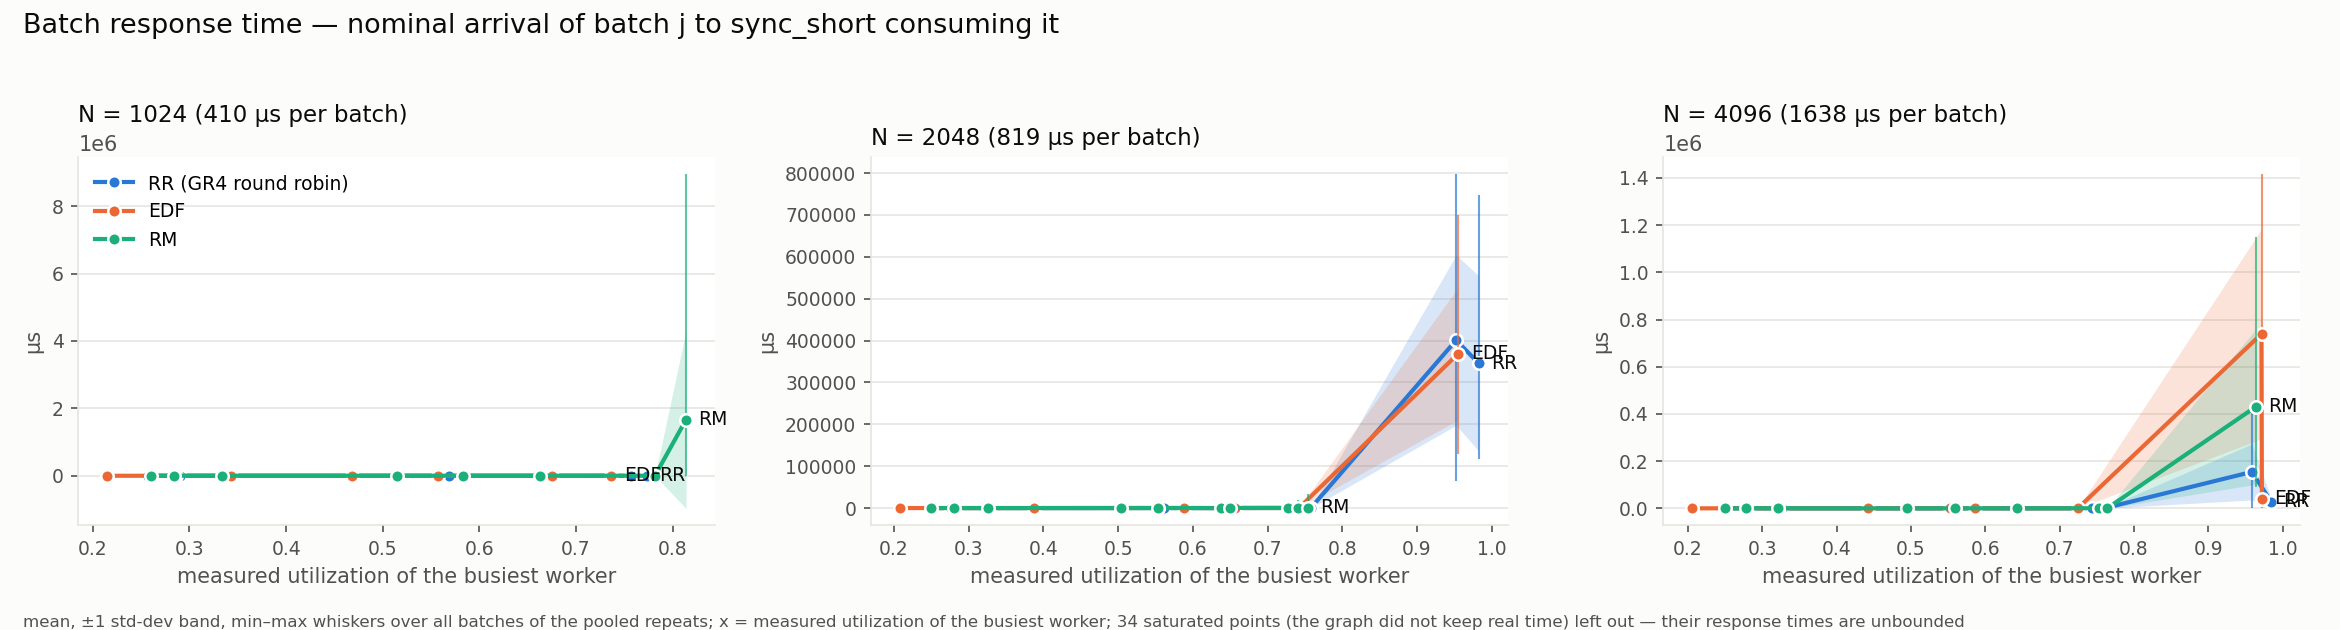
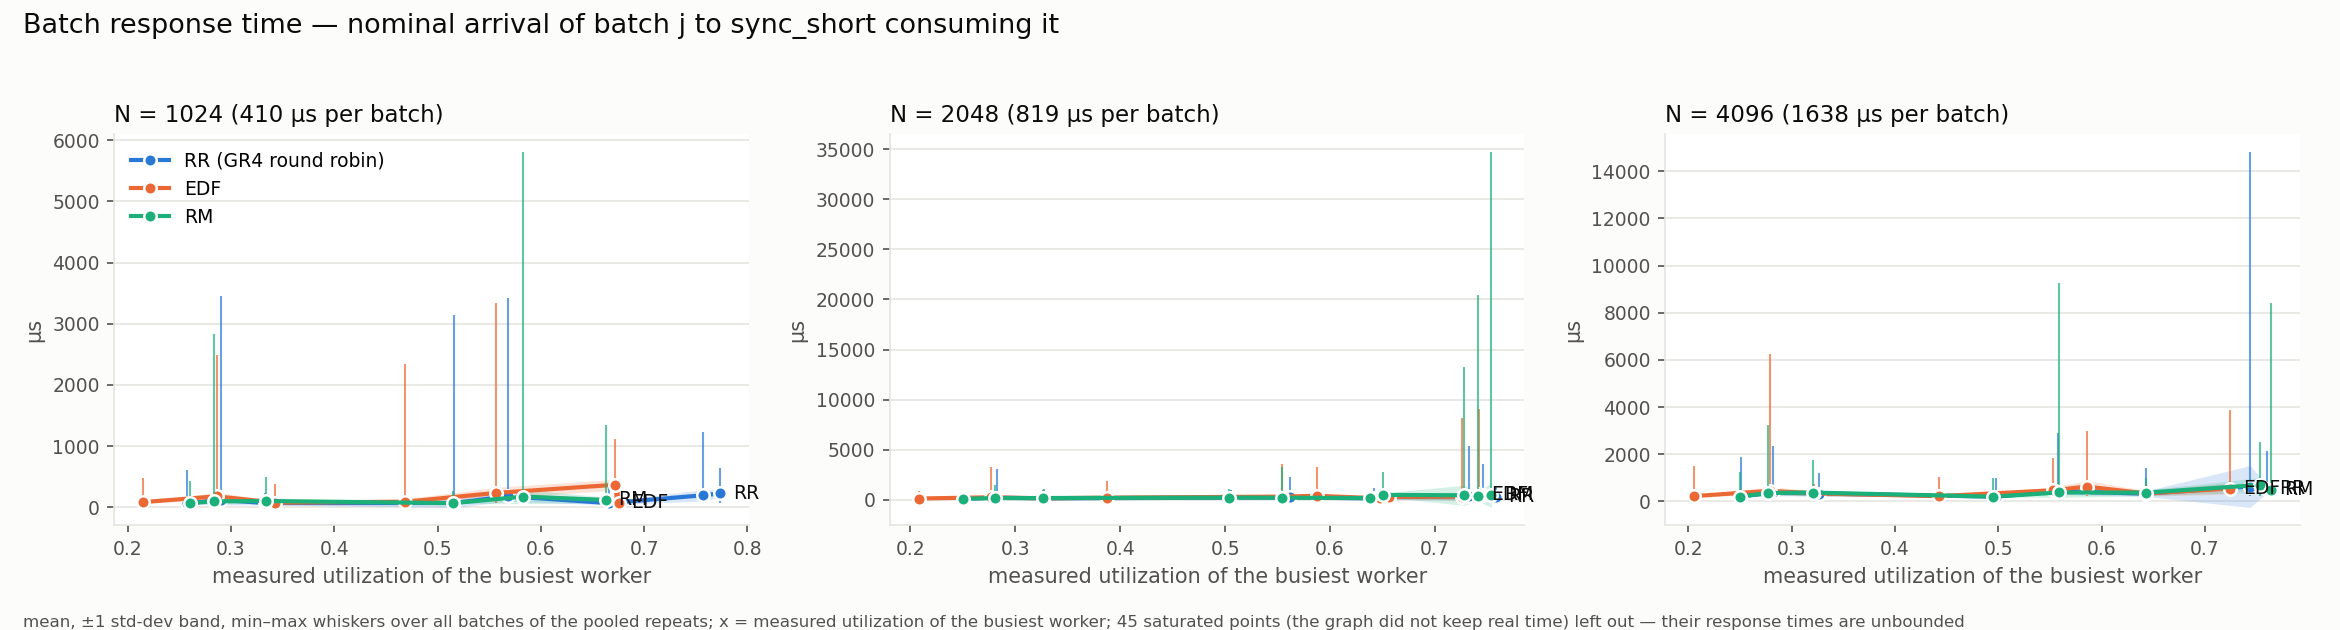
rt-plot4/trace-batch-rt: a throttle ten periods late at p95 is saturation too; figures regenerated
A 60 s run can finish within 1.05x its air time while carrying a backlog of hundreds
of batches; those points set the axis of the batch panels. The interpreter flags
them from the throttle's publish lag (p95 > 10 batch periods) and the plotter applies
the same rule to runs analysed before, from the lag statistics in their JSON.

diff --git a/ports/gr4-ieee80211/scripts/trace-batch-rt.py b/ports/gr4-ieee80211/scripts/trace-batch-rt.py
@@ -104,6 +104,7 @@ def main():
     # throttle publishes late because its output buffer stays full); the point is saturated
     out["realtime_ratio"] = (meta.get("elapsed_s") / out["air_s"]) if (out["air_s"] and meta.get("elapsed_s")) else None
     out["saturated"] = bool(out["realtime_ratio"] and out["realtime_ratio"] > 1.05)
+    out["saturation_reason"] = "slower than 1.05x real time" if out["saturated"] else None
     if out["saturated"]:
         print(f"trace-batch-rt: WARNING the run took {out['realtime_ratio']:.2f}x its air time: the graph did not keep up; batch response times are unbounded here", file=sys.stderr)
 
@@ -226,6 +227,12 @@ def main():
             pc["batch_rt"] = stats(rt, period_ns)
             pc["batch_rt_from_publish"] = stats(rt_pub, period_ns)
             pc["throttle_lag"] = stats(PUB - REL)  # publish - nominal: how late the arrival point itself was
+            # a run can finish within 1.05x its air time and still carry a backlog of hundreds of
+            # batches (a 0.4 s lag is 0.7 % of a 60 s run): the throttle publishing ten periods late
+            # at the 95th percentile is the saturation criterion that matches what the plot shows
+            if period_ns and pc["throttle_lag"].get("n") and pc["throttle_lag"]["p95_us"] * 1e3 > 10 * period_ns:
+                out["saturated"] = True
+                out["saturation_reason"] = f"throttle lag p95 {pc['throttle_lag']['p95_us']:.0f} us > 10 batch periods (chain {k})"
             pc["per_block_done"] = {role: stats(done[role] - REL) for role in PRE_GATE}
             pc["per_block_begin"] = {role: stats(begin[role] - REL) for role in PRE_GATE}
             # frame-anchored batch response time: decode instant minus the release of the batch holding the frame's last sample

diff --git a/ports/gr4-ieee80211/scripts/rt-plot4.py b/ports/gr4-ieee80211/scripts/rt-plot4.py
@@ -42,8 +42,17 @@ def load_points(sweep_dir):
         if not b.get("per_chain"):
             continue
         u = b.get("utilization") or {}
+        # saturation: the run's own flag, or the throttle publishing ten batch periods late at the
+        # 95th percentile (runs analysed before that rule was added carry only the first flag)
+        per_us = b.get("batch_period_us")
+        sat = bool(b.get("saturated"))
+        if per_us:
+            for pc in b["per_chain"]:
+                tl = pc.get("throttle_lag") or {}
+                if tl.get("n") and tl.get("p95_us", 0) > 10 * per_us:
+                    sat = True
         pts.append({"dir": os.path.dirname(p), "N": b["fixed_batch"], "policy": b["policy"], "threads": b["threads"], "chains": b["chains"], "rate": b["rate"],
-                    "traced": bool(b.get("trace", {}).get("written")), "u_max": u.get("max_worker"), "u_total": u.get("total_cores_busy"), "saturated": bool(b.get("saturated")),
+                    "traced": bool(b.get("trace", {}).get("written")), "u_max": u.get("max_worker"), "u_total": u.get("total_cores_busy"), "saturated": sat,
                     "per_chain": b["per_chain"], "edf": b.get("edf"), "lost": (b.get("trace_header") or {}).get("lost_count", 0), "batch_period_us": b.get("batch_period_us")})
     return pts
 
